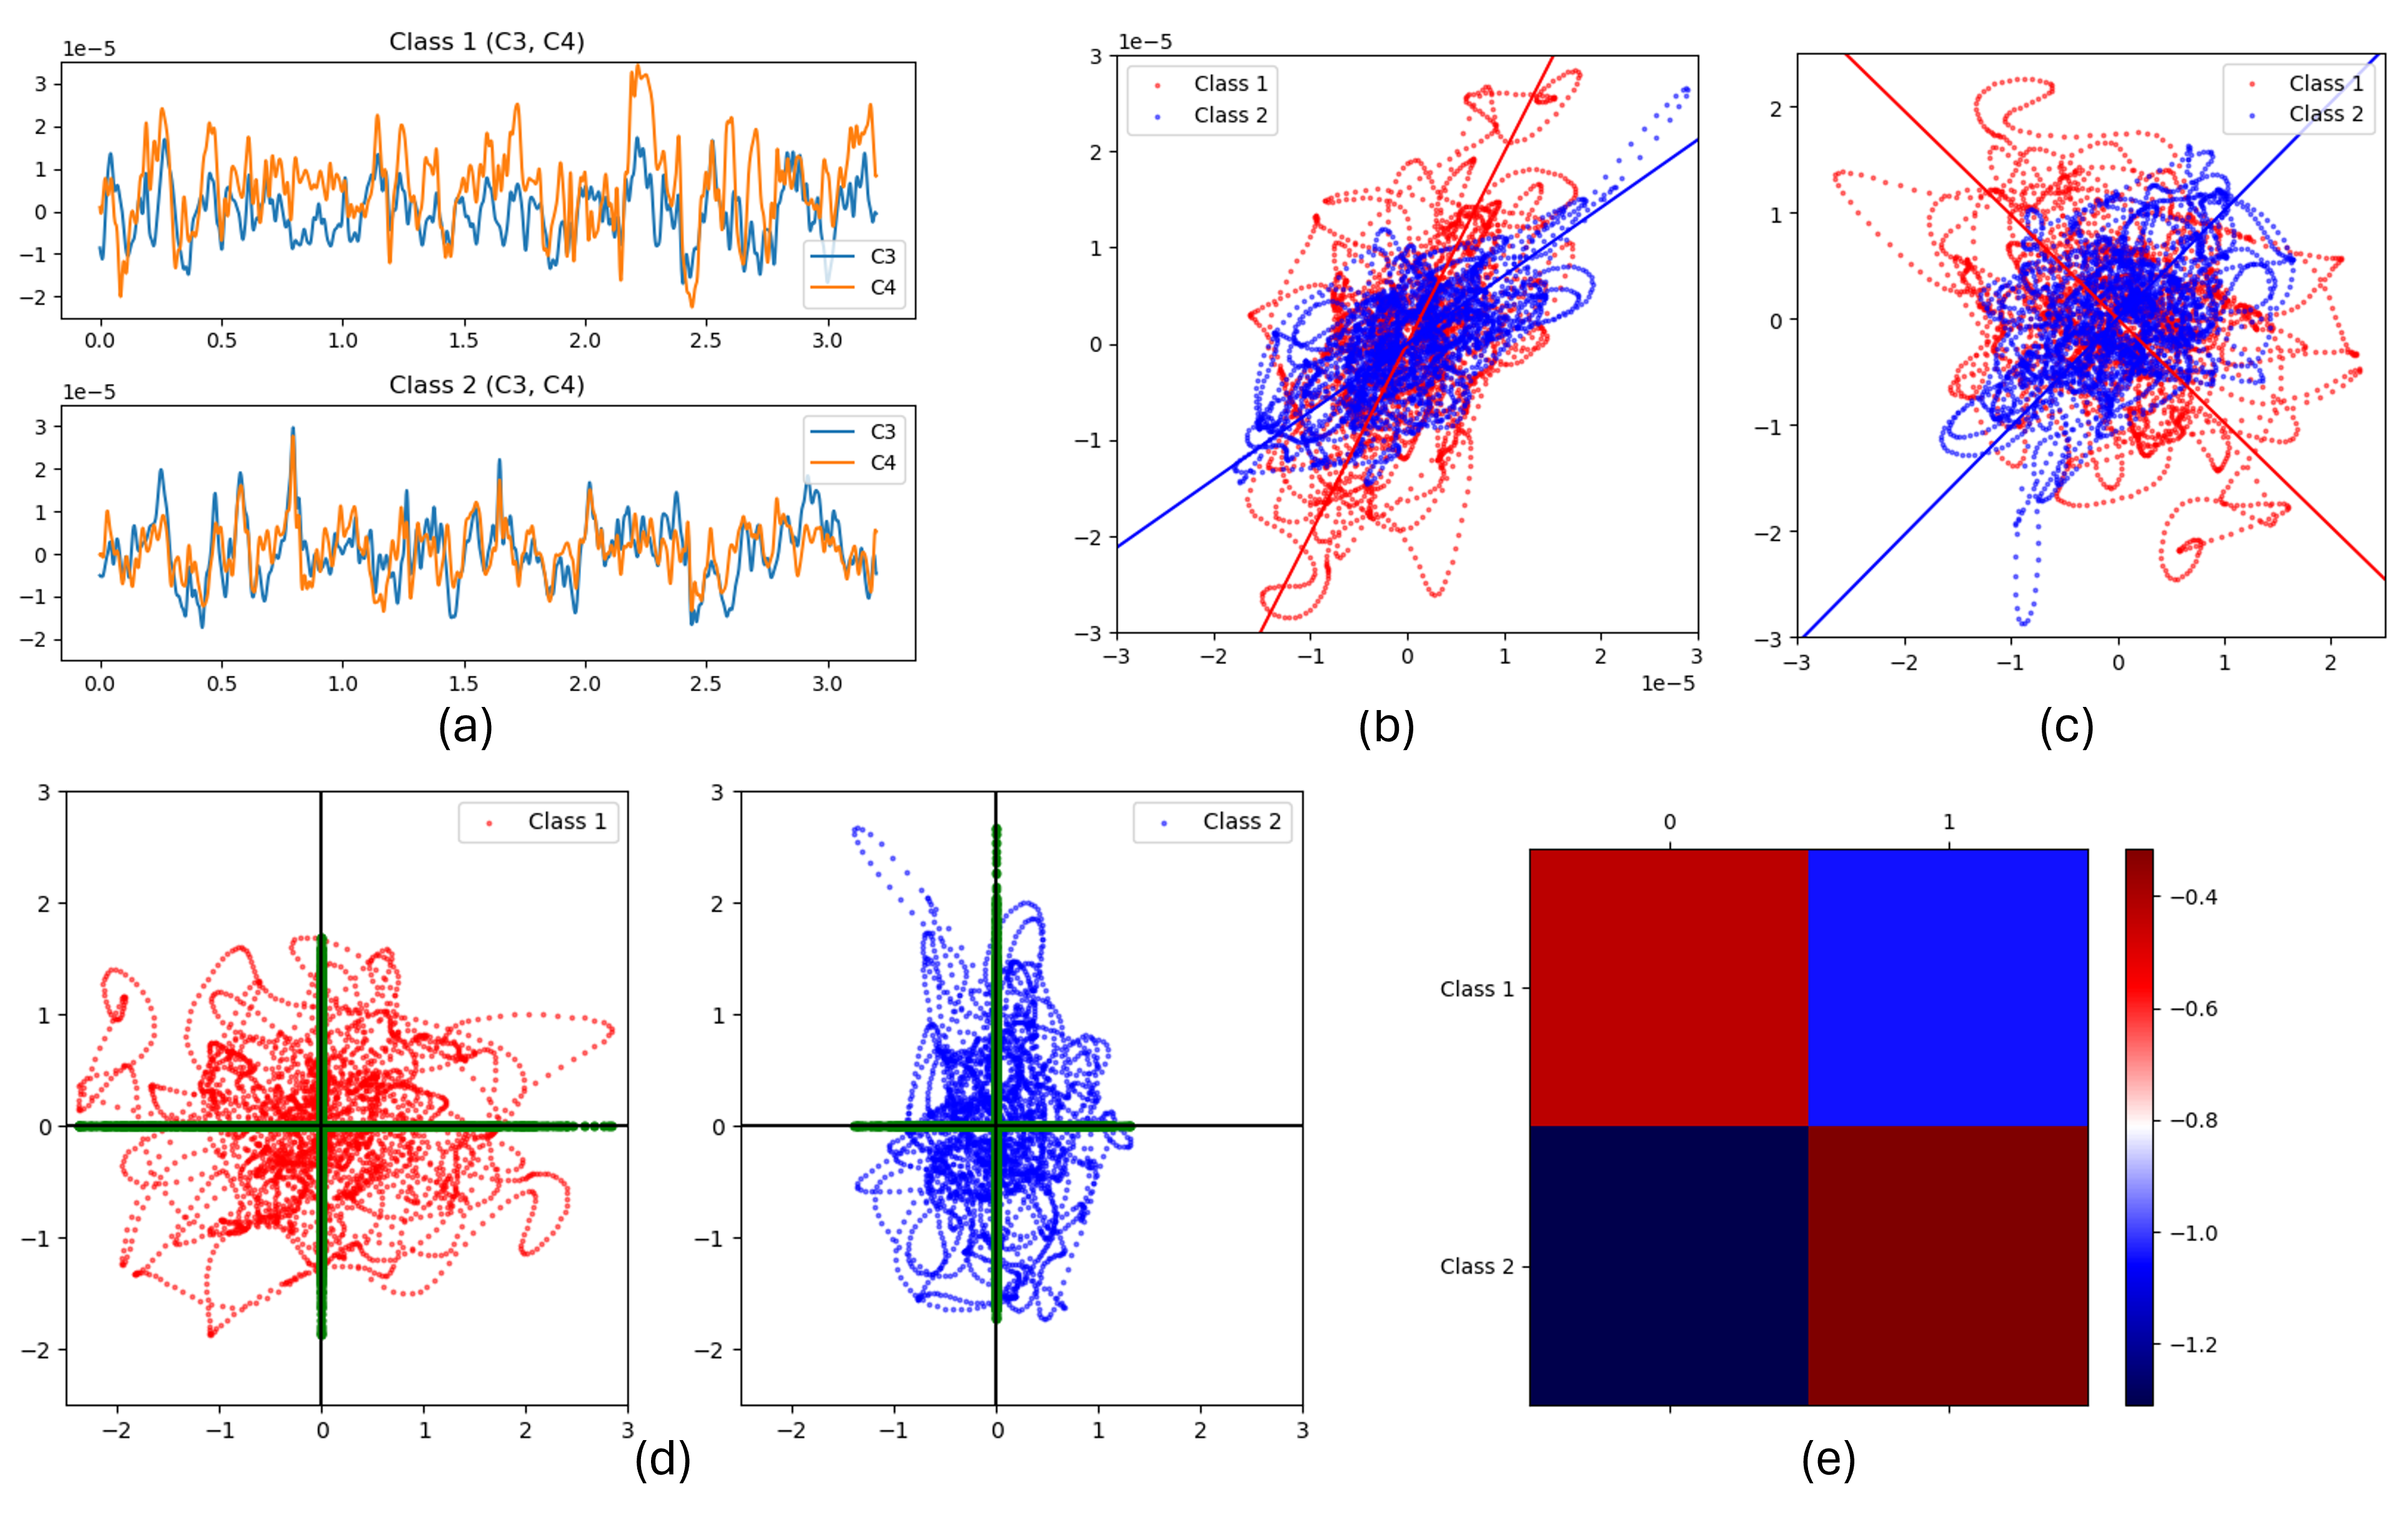
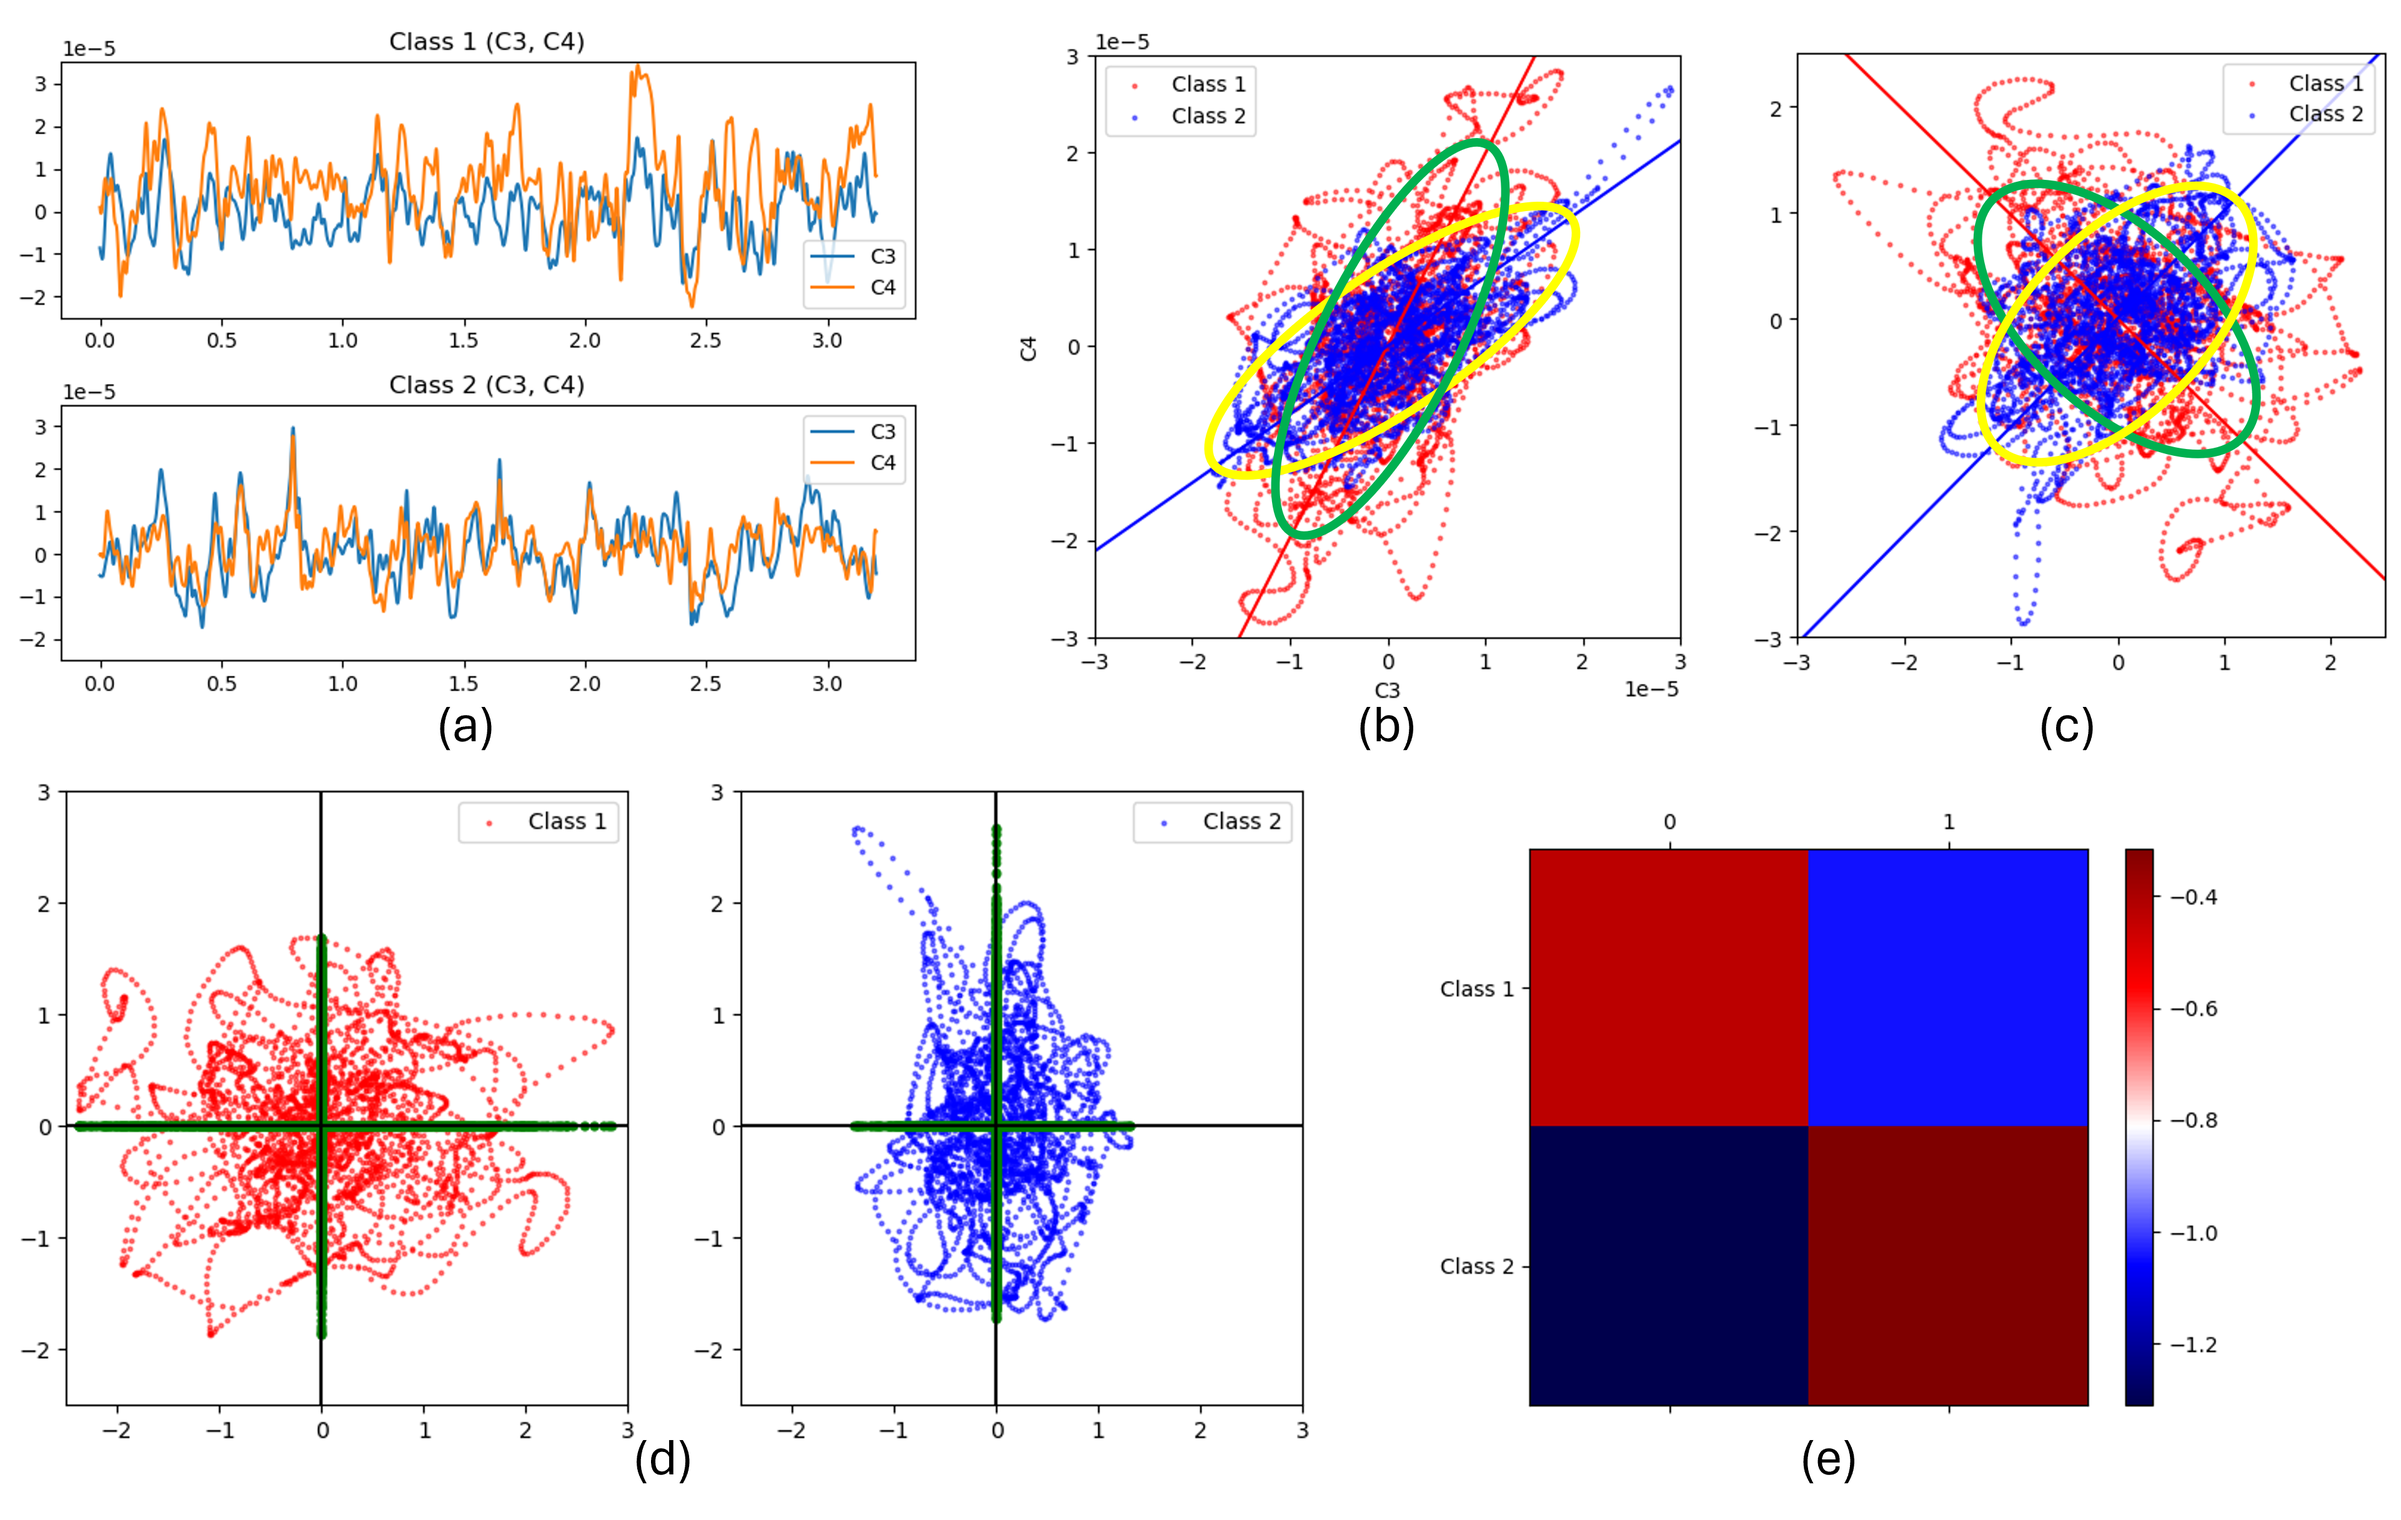
CSP

diff --git a/_posts/2024-04-15-CSP.md b/_posts/2024-04-15-CSP.md
@@ -2,6 +2,8 @@
 title: 'Common Spatial Pattern'
 date: 2024-04-15
 permalink: /posts/2024/04/commonspatialpattern/
+
+: "Introduction of Common Spatial Pattern(CSP) Algorithm"
 tags:
   - CSP
   - EEG
@@ -10,19 +12,25 @@ tags:
 
 # Introduction of Common Spatial Pattern(CSP) Algorithm
 
-Common spatial pattern (CSP) is a spatial filtering algorithms commonly used in the field of Brain-Computer Interface (BCI), especially in the classification of motor imagery paradigms, which is one of the benchmark algorithms for motor imagory paradigms. 
+The Common Spatial Pattern (CSP) is a spatial filtering algorithm widely employed in the Brain-Computer Interface (BCI) domain, serving as a benchmark for EEG classification, particularly in motor imagory paradigms. 
 
-We will start from the purpose of CSP algorithm, and tries to elucidate the connection between the mathematical ideas and neuroscience.
+In this exploration, we embark on elucidating the purpose of the CSP algorithm and its connection between the mathematical concepts and neuroscience. This blog draws from the seminal paper by [Ramoser et al. (2000)](https://doi.org/10.1109/86.895946)
 
 ## The general idea of CSP and the explanation of the name of the algorithm
-The purpose of CSP Algorithm is to design a linear transform, which can also be called as a pair of spatial filters, mapping the original data into a new space which is more discriminative. The following figure is an example, which use a spatial filter project two classes of EEG epoch into a 2D feature space.
+The purpose of CSP Algorithm is to craft a linear transform, which can also be called as a pair of spatial filters, that maps the original data into a new space with more discriminative features.
 
 ![spatial filter](/images/spatialfilter.png)
 
 <!--<br/><img src='/images/spatialfilter.png'>-->
 
-Briefly introducing with an example below, here two trials of EEG signal from two separate classes (class 1 and class 2). Here, we took two channels as an example (C3 and C4). 
+To briefly illustrate with the example below, consider two trials of EEG signals from two distinct classes (Class 1 and Class 2). Focusing on two channels (C3 and C4) for visual reference. Figure (a) displays the EEG signal in the time domain, while Figure (b) presents a scatter plot of C3 and C4. The CSP process involves scretching and rotating the signal distribution using the pair of spatial filters for both classes, as depicted from Figure (b) to (c), where the variance of transformed signal through the former half of the filters is maximized for one class while minimized for the other, while the latter half of the filters exhibit the opposite effect. Subsequently, the distribution is further rotated (from (c) to (d)) and the data is projected into lower-dimensional features for classification (from (d) to (e))
 
 ![CSP general](/images/CSP_total.png)
+
+## knowledge background of CSP
+
+Before delving into the details of CSP, it is essential to grasp some fundamental concepts in linear algebra. If you are not already fimilar with these terms (much like myself), I highly recommend investing some time in learning about them. This foundational knowledge is crucial for a deeper understanding of the algorithm, rather than merely using it. 
+
+### 
 
 <!--This post will show up by default. To disable scheduling of future posts, edit `config.yml` and set `future: false`. -->
